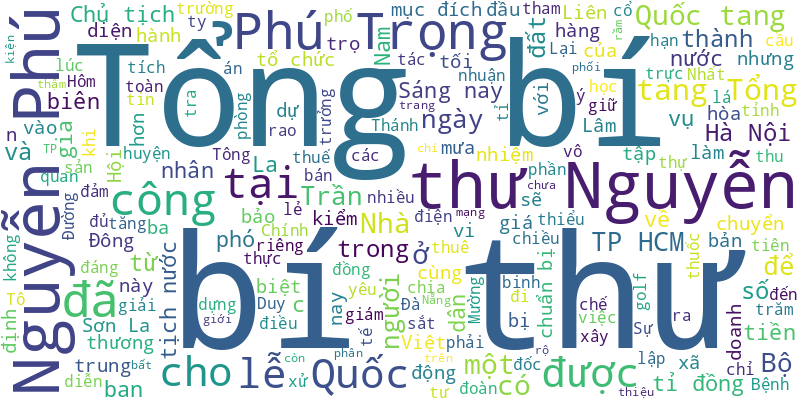
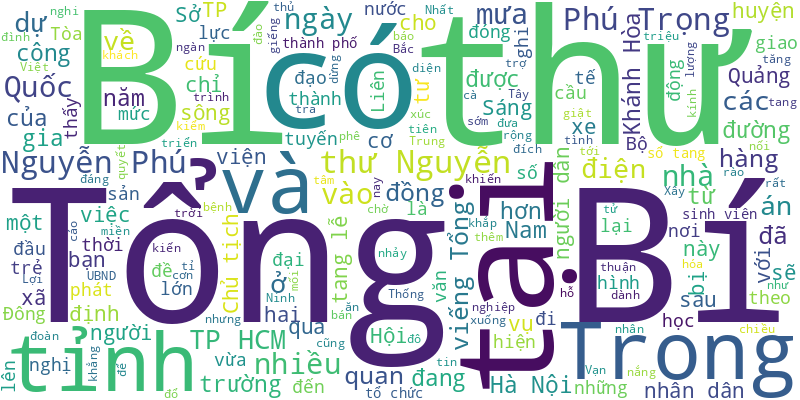
🍀 = 20%

diff --git a/README.md b/README.md
@@ -1,6 +1,12 @@
 # Tuoi Tre RSS 
 
 ## Giáo dục 
+- Nhiều thí sinh có kết quả học tập khá tốt đã chọn theo học nghề tại các trường cao đẳng, trung cấp.
+- Thời điểm thí sinh tham gia đăng ký nguyện vọng xét tuyển theo quy định, nhiều trường đại học, cao đẳng triển khai nhiều hoạt động tương tác để thí sinh tham gia tìm hiểu, tham quan, lắng nghe.
+- Ban tuyển sinh quân sự Bộ Quốc phòng thông báo điểm sàn nhận hồ sơ xét tuyển đại học, cao đẳng các trường quân đội năm 2024 dao động từ 14 - 24 điểm.
+- Bộ Công an vừa công bố ngưỡng điểm đảm bảo chất lượng đầu vào trình độ đại học và trung cấp của khối trường công an.
+- Trường đại học Nha Trang (tỉnh Khánh Hòa) nhập sai mức thu học phí tín chỉ của hàng chục sinh viên sắp tốt nghiệp. Sau khi phát hiện sai sót, trường yêu cầu sinh viên đóng thêm số tiền còn thiếu, có sinh viên phải đóng bổ sung đến hơn 15 triệu đồng.
+- Nhiều thí sinh chốt chọn nguyện vọng 1 tại Trường Đại học Công nghệ TP.HCM (HUTECH) để vừa trúng tuyển vừa sở hữu suất học bổng trị giá 50% học phí.
 - Nhiều học sinh TP.HCM dù đậu vào lớp 10 trường THPT công lập nhưng vẫn chọn học trường tư thục để dễ hiện thực hóa mục tiêu nghề nghiệp trong tương lai hơn.
 - Thi xong, Đức Mạnh cũng như nhiều bạn bè của mình không khỏi lo lắng: lo không làm được bài, lo điểm thấp… Nhưng hơn một tuần sau đó, bạn tỉnh táo gác lại những âu lo bởi biết mình vẫn còn những cơ hội khác.
 - Năm nay, ngành quan hệ công chúng của Trường đại học Khoa học xã hội và Nhân văn dẫn đầu điểm chuẩn phương thức xét kết hợp chứng chỉ tiếng Anh quốc tế với điểm thi tốt nghiệp THPT.
@@ -25,44 +31,38 @@
 - Nhiều chính sách đang thay đổi nhanh chóng tại các thị trường du học lớn khiến học sinh buộc phải lên kế hoạch và chuẩn bị hồ sơ du học từ sớm.
 - 6 giảng viên từ 3 trường đại học ở Thái Lan bị sa thải vì gian lận bài báo khoa học, đối mặt cáo buộc hình sự.
 - Thí sinh xét điểm thi tốt nghiệp THPT vào Học viện Ngoại giao năm nay bằng khối C (văn, sử, địa) phải có điểm sàn xét tuyển từ 23,5 điểm.
-- Chỉ còn 8 ngày nữa sẽ kết thúc thời hạn đăng ký nguyện vọng xét tuyển nhưng không ít thí sinh vẫn lúng túng, chưa chốt được ngành học.
-- 36 trường THPT công lập ở TP.HCM sẽ tuyển 2.203 học sinh trong đợt tuyển bổ sung, nộp hồ sơ trực tiếp tại trường từ ngày 22-7.
-- Thông báo về điểm chuẩn tuyển sinh lớp 10, có  nhiều trường quy định tiêu chí phụ xét thêm điểm trung bình lớp 9.
-- Ở tuổi 61, ông Kato Mitsuru, quốc tịch Nhật Bản, đăng ký học thạc sĩ khu vực học định hướng Việt Nam học, tại Trường đại học Việt Nhật và trở thành học viên "đặc biệt" nhất khóa VII.
-- Sinh viên được tiếp nhận vào ký túc xá Cỏ May sẽ được ở miễn phí, chu cấp tiền ăn hằng tháng và học phí.
-- Vốn có đam mê với bọ cánh cứng, bươm bướm, bạn Nguyễn Kim Long (sinh viên năm 3) đã mở cửa hàng trưng bày và dạy làm tiêu bản.
 ![Edu](Edu.png)
 ## Thời Sự 
-- Một dự án bất động sản tại Đà Nẵng chưa đủ điều kiện nhưng đã rao bán rầm rộ trên mạng xã hội, thậm chí có một số trang còn giới thiệu đã phân phối thu về hàng trăm tỉ đồng.
-- Nhà ở riêng lẻ có mục đích cho thuê trọ ở TP.HCM sẽ được hỗ trợ vay vốn, giá điện nước để xây dựng, cải tạo thành nhà trọ an toàn, bảo đảm diện tích tối thiểu.
-- Từ sáng sớm 25-7, nhiều người dân đã về làng Lại Đà, xã Đông Hội, huyện Đông Anh, Hà Nội - quê hương Tổng bí thư Nguyễn Phú Trọng, để chuẩn bị vào viếng.
-- Sáng nay 25-7, Lễ Quốc tang Tổng bí thư Nguyễn Phú Trọng khu vực miền Nam diễn ra tại Hội trường Thống Nhất, TP.HCM.
-- Sáng nay 25-7, cờ rủ được kéo lên tại quảng trường Ba Đình (Hà Nội) cùng dải băng đen. Quốc tang Tổng bí thư Nguyễn Phú Trọng diễn ra trong 2 ngày.
-- Một số tin tức đáng chú ý: Kiểm kê đất đai cả nước từ ngày 1-8-2024; FLC bị cưỡng chế hơn 822 tỉ đồng tiền thuế; Nhân viên y tế công lập ở TP.HCM phải luân chuyển tuyến dưới...
-- Hôm nay, trong ngày đầu tiên lễ Quốc tang Tổng bí thư Nguyễn Phú Trọng, chúng ta cùng tưởng nhớ về một nhân cách lớn.
-- Hôm nay 25-7, mưa dông đã giảm ở Bắc Bộ, ban ngày trời nắng gián đoạn, có lúc mưa rào. Nam Bộ mưa tập trung về chiều tối.
-- Đang thực hiện nhiệm vụ gìn giữ hòa bình Liên Hiệp Quốc ở phái bộ Abyei, nghe tin Tổng bí thư Nguyễn Phú Trọng từ trần, cán bộ, chiến sĩ 'mũ nồi xanh' Việt Nam bày tỏ niềm tiếc thương vô hạn.
-- Sáng nay (25-7), lễ Quốc tang Tổng bí thư Nguyễn Phú Trọng được tổ chức tại Nhà tang lễ quốc gia số 5 Trần Thánh Tông, TP Hà Nội.
-- "Một người nhỏ bé, hiền lành, hòa nhã nhưng để lại cho đời một di sản đồ sộ đáng kính trọng", GS.TSKH Vũ Minh Giang nói.
-- Sáng nay 25-7, Lễ Quốc tang Tổng bí thư Nguyễn Phú Trọng được tổ chức tại Nhà tang lễ quốc gia, số 5 Trần Thánh Tông, thành phố Hà Nội.
-- Tổng bí thư Nguyễn Phú Trọng đã từ trần vào ngày 19-7-2024 tại Bệnh viện Trung ương Quân đội 108. Sổ tang điện tử sẽ là nơi bạn đọc thể hiện sự tiếc thương với nhà lãnh đạo lỗi lạc vì dân vì nước.
-- Chủ tịch nước Tô Lâm xúc động khi Cuba là một trong những nước đầu tiên thông báo cử đoàn tới chia buồn và dự lễ tang Tổng bí thư Nguyễn Phú Trọng.
-- Công ty cổ phần Đường sắt Hà Nội và Công ty cổ phần Đường sắt Sài Gòn đều có doanh thu hàng trăm tỉ nhưng lợi nhuận quý 2-2024 đạt được chỉ vài tỉ đồng.
-- Thủ tướng yêu cầu tỉnh Sơn La tổ chức kiểm tra, rà soát, đánh giá nguyên nhân sạt lở đất, ngập lụt tại thành phố Sơn La để có giải pháp khắc phục, hạn chế thiệt hại.
-- Từng trực tiếp tham gia biên tập hơn 20 cuốn sách của Tổng bí thư Nguyễn Phú Trọng, phó giám đốc, phó tổng biên tập Nhà xuất bản Chính trị Quốc gia Sự thật đã học được rất nhiều bài học vô giá.
-- Chủ tịch nước yêu cầu quan tâm đặc biệt, nhanh chóng hơn nữa đến thương binh, bệnh binh, người có công, tương xứng với sự phát triển của đất nước.
-- Trì hoãn chuyển tiền thi hành án với số tiền 158 tỉ đồng, Ngân hàng SHB chi nhánh Phú Nhuận (TP.HCM) đã bị lập biên bản vi phạm hành chính để xử phạt.
-- Từ kinh nghiệm quốc tế đến thực tiễn tại Việt Nam cho thấy việc tăng thuế thuốc lá không làm tăng buôn lậu thuốc lá.
-- Đất đắp cho cao tốc Biên Hòa - Vũng Tàu đã được gỡ khó khi chiều nay 24-7, các đơn vị liên quan đã đồng ý hướng khai thác.
-- Tại thời điểm này, công tác chuẩn bị lễ Quốc tang Tổng bí thư Nguyễn Phú Trọng đã cơ bản hoàn thành. TP.HCM công bố sổ tang điện tử để người dân chia sẻ tình cảm với Tổng bí thư Nguyễn Phú Trọng.
-- Ông Trần Duy Đông, thứ trưởng Bộ Kế hoạch và Đầu tư, được Ban Bí thư điều động, chỉ định giữ chức vụ phó bí thư Tỉnh ủy Vĩnh Phúc nhiệm kỳ 2020-2025.
-- Tổng giám đốc Liên doanh Việt - Nga Vietsovpetro cho biết sẽ xử lý nghiêm các cá nhân thuộc doanh nghiệp này nếu họ đi chơi golf trong giờ làm việc như phản ánh.
-- Lâm Đồng đưa vụ xây dựng trái phép Tòa nhà câu lạc bộ golf Đồi Cù  vào diện theo dõi của BCĐ phòng, chống tham nhũng tiêu cực.
-- Chủ tịch nước đã quyết định truy tặng Huân chương Bảo vệ Tổ quốc hạng ba cho trung tá Trần Duy Hùng - phó trưởng công an phường ở Huế hy sinh trong lúc làm nhiệm vụ.
-- TP.HCM sẽ ban hành quy định buộc nhà ở riêng lẻ có mục đích cho thuê trọ phải bảo đảm diện tích tối thiểu (dự kiến 5m2 sàn/người) và an toàn phòng cháy.
-- Chủ biệt thự “đẹp nhất Cà Mau” cho hay không đủ 10 tỉ đóng tiền chuyển đổi mục đích sử dụng đất nên rao bán biệt thự này.
-- Lực lượng công an xã Mường Bú và huyện Mường La (Sơn La) giải cứu thành công 5 người dân bị mắc kẹt giữa dòng lũ.
-- Ngày 24-7, Chủ tịch nước Tô Lâm, Thường trực Ban Bí thư Lương Cường cùng đoàn đã đi kiểm tra công tác chuẩn bị lễ Quốc tang Tổng bí thư Nguyễn Phú Trọng.
+- Sở Xây dựng TP.HCM vừa trình UBND TP đề cương quản lý, hỗ trợ nhà ở riêng lẻ có mục đích cho thuê trọ tại TP.HCM.
+- Sáng sớm 26-7, thêm vụ cháy xe điện xảy ra tại thành phố Hội An, Quảng Nam. Trong ít phút, 21 xe điện bị thiêu rụi.
+- Trong ngày có rất nhiều đoàn đại biểu các cơ quan Trung ương, bộ, ngành, tỉnh, thành phố, tổ chức, đơn vị... đã vào kính viếng Tổng Bí thư Nguyễn Phú Trọng.
+- Trong chuyến thăm và làm việc với huyện A Lưới (tỉnh Thừa Thiên Huế) vào năm 2014, Tổng Bí thư Nguyễn Phú Trọng đã chỉ đạo dành nguồn lực xây cho bà con nghèo ở xã Hồng Hạ hai công trình đặc biệt.
+- Sáng 25-7, lễ viếng Tổng Bí thư Nguyễn Phú Trọng đã được tổ chức theo nghi thức Quốc tang tại Nhà tang lễ quốc gia; quê nhà xã Đông Hội, huyện Đông Anh, TP Hà Nội và Hội trường Thống Nhất, TP.HCM.
+- Ngay trong ngày đầu tiên Quốc tang 25-7, lễ viếng Tổng Bí thư Nguyễn Phú Trọng tại Nhà tang lễ quốc gia ở Hà Nội đã chứng kiến nhiều khoảnh khắc xúc động đến từ các đoàn khách quốc tế.
+- Trong lúc đào giếng tưới cà phê, mối nối dây điện bị hở khiến hai thợ đào giếng bị điện giật tử vong tại chỗ.
+- Từ sáng sớm 26-7, hàng ngàn người dân xếp hàng chờ vào viếng Tổng Bí thư Nguyễn Phú Trọng tại Nhà tang lễ Quốc gia, Hà Nội và Hội trường Thống Nhất, TP.HCM.
+- Sinh thời, Tổng Bí thư Nguyễn Phú Trọng dành nhiều tình cảm, quan tâm văn nghệ sĩ cũng như chỉ đạo việc phát triển công nghiệp văn hóa ở Việt Nam.
+- Một số tin tức đáng chú ý: Giá bán lên gần 500 triệu đồng/m2, giao dịch nhà liền thổ TP.HCM 'ì ạch'; Lợi nhuận đại gia bất động sản tăng trở lại; Nhiều tổ chức nâng dự báo tăng trưởng GDP năm nay của Việt Nam...
+- Bạn nghĩ gì mỗi lần nhìn thấy các bạn trẻ, các bác hưu trí đi bóc gỡ các mẩu quảng cáo ở bờ tường, cột điện? Tôi thấy phẫn nộ thật sự những người dán quảng cáo kiểu này.
+- Hôm nay thời tiết Bắc Bộ giảm hẳn mưa vào ban ngày, nhiều nơi có nắng nóng, chiều tối mưa rào, Nam Bộ trời nhiều mây, mưa rào tới mưa to.
+- Mưa lớn kèm theo lốc xoáy khiến hàng loạt trụ điện dọc đường ĐT 741 ngã đổ xuống đường gây mất điện diện rộng.
+- Bé trai 3 tuổi từ trường mầm non tư thục ở Khánh Hòa về nhà thì lên cơn co giật, nôn ói được gia đình đưa vào bệnh viện cấp cứu, sau đó được chuyển vào điều trị tại Bệnh viện Nhi đồng TP.HCM nhưng tiên lượng rất nặng.
+- Trời Hà Nội đang nắng bỏng rát bỗng chốc đổ cơn mưa lớn, lực lượng tình nguyện viên thủ đô vẫn bám các nút giao, hỗ trợ phân luồng và phục vụ nhân dân vào viếng Tổng Bí thư Nguyễn Phú Trọng.
+- Đang đi giao hàng qua cầu Thạch Bích, TP Quảng Ngãi, thấy một phụ nữ dừng xe nhảy xuống sông Trà Khúc tự tử, không chút do dự, chàng shipper cũng dừng xe nhảy theo, cố hết sức cứu người.
+- Dự án đường liên tuyến kết nối vùng N8-787B-789 được phê duyệt đầu tư năm 2021 với tổng vốn 3.416 tỉ đồng. Hiện Tây Ninh đang nỗ lực đưa dự án về đích, giúp người dân đi lại thuận lợi hơn.
+- Liên quan việc Tòa án nhân dân tỉnh Đồng Nai có quyết định mở thủ tục phá sản, Công ty LDG đã thông tin về vụ việc và khẳng định đang đề nghị tòa xem xét hủy bỏ quyết định này.
+- Trận lũ sáng 24-7 tràn về xã Tông Cọ (Thuận Châu, Sơn La) quá nhanh, người dân dỡ nóc nhà leo lên mái chờ cứu.
+- Trong ngày Quốc tang, hàng ngàn người dân từ khắp mọi miền Tổ quốc đã về Hà Nội để viếng Tổng Bí thư Nguyễn Phú Trọng; cờ rủ được treo khắp nơi, màn hình LED chiếu tư liệu về Tổng Bí thư để tưởng nhớ những đóng góp to lớn của ông cho đất nước.
+- Cơ quan chức năng vừa có buổi kiểm tra quán ăn tại xã Vạn Thắng (huyện Vạn Ninh, Khánh Hòa) bị khách tố “chặt chém”, nhưng trong ngày kiểm tra chủ cơ sở vắng mặt.
+- Tại cuộc gặp Chủ tịch nước Tô Lâm, Chủ tịch Đảng Nhân dân Campuchia, Chủ tịch Thượng viện Campuchia Hun Sen khẳng định nước này sẽ luôn giữ gìn và vun đắp mối quan hệ hai bên ngày càng phát triển.
+- Liên quan vụ hơn 60 công nhân nhập viện nghi ngộ độc sau bữa cơm trưa, Sở Y tế Bình Phước đề nghị tạm đình chỉ cơ sở bán suất ăn cho công nhân.
+- Trong tương lai, TP Cam Ranh (tỉnh Khánh Hòa) sẽ là trung tâm kinh tế, văn hóa, giáo dục, khoa học kỹ thuật của khu vực phía nam tỉnh Khánh Hòa và là đô thị du lịch - logistics của khu vực này.
+- Trường đại học Nha Trang (tỉnh Khánh Hòa) nhập sai mức thu học phí tín chỉ của hàng chục sinh viên sắp tốt nghiệp. Sau khi phát hiện sai sót, trường yêu cầu sinh viên đóng thêm số tiền còn thiếu, có sinh viên phải đóng bổ sung đến hơn 15 triệu đồng.
+- Ba cầu trên đường tỉnh 827E qua sông Cần Giuộc, sông Vàm Cỏ Đông, sông Vàm Cỏ Tây sẽ hình thành tuyến đường xuyên suốt từ TP.HCM qua Long An đến Tiền Giang.
+- Dự án cao tốc Cần Thơ - Cà Mau có chiều dài tuyến chính hơn 110km qua địa bàn 5 tỉnh và thành phố, với tổng mức đầu tư hơn 27.500 tỉ đồng đang dần hình thành và dự kiến hoàn thành vào cuối năm tới.
+- Khán phòng nơi viết sổ tang Tổng Bí thư Nguyễn Phú Trọng có nhiều người trẻ lưu lại, xúc động ghi chia sẻ với người lãnh đạo đáng kính, "thần tượng" như một số bạn ghi trong sổ tang. Có thời điểm 24 bàn ghi sổ tang đều là các bạn trẻ cặm cụi viết.
+- Sau nhiều ngày nghị án, Tòa án nhân dân tỉnh An Giang tuyên phạt hai cựu phó chủ tịch UBND huyện Chợ Mới cùng mức án 11 năm tù về tội tham ô tài sản.
+- Dự báo những ngày cuối tháng 7, ở miền Bắc sẽ xuất hiện một đợt mưa vừa, mưa to trên diện rộng.
 ![New](News.png)
 ## Nhịp sống số 
 - CrowdStrike thừa nhận sự cố sập hệ thống vi tính toàn cầu là do lỗi trong quá trình kiểm soát chất lượng các bản cập nhật phần mềm của công ty này.
